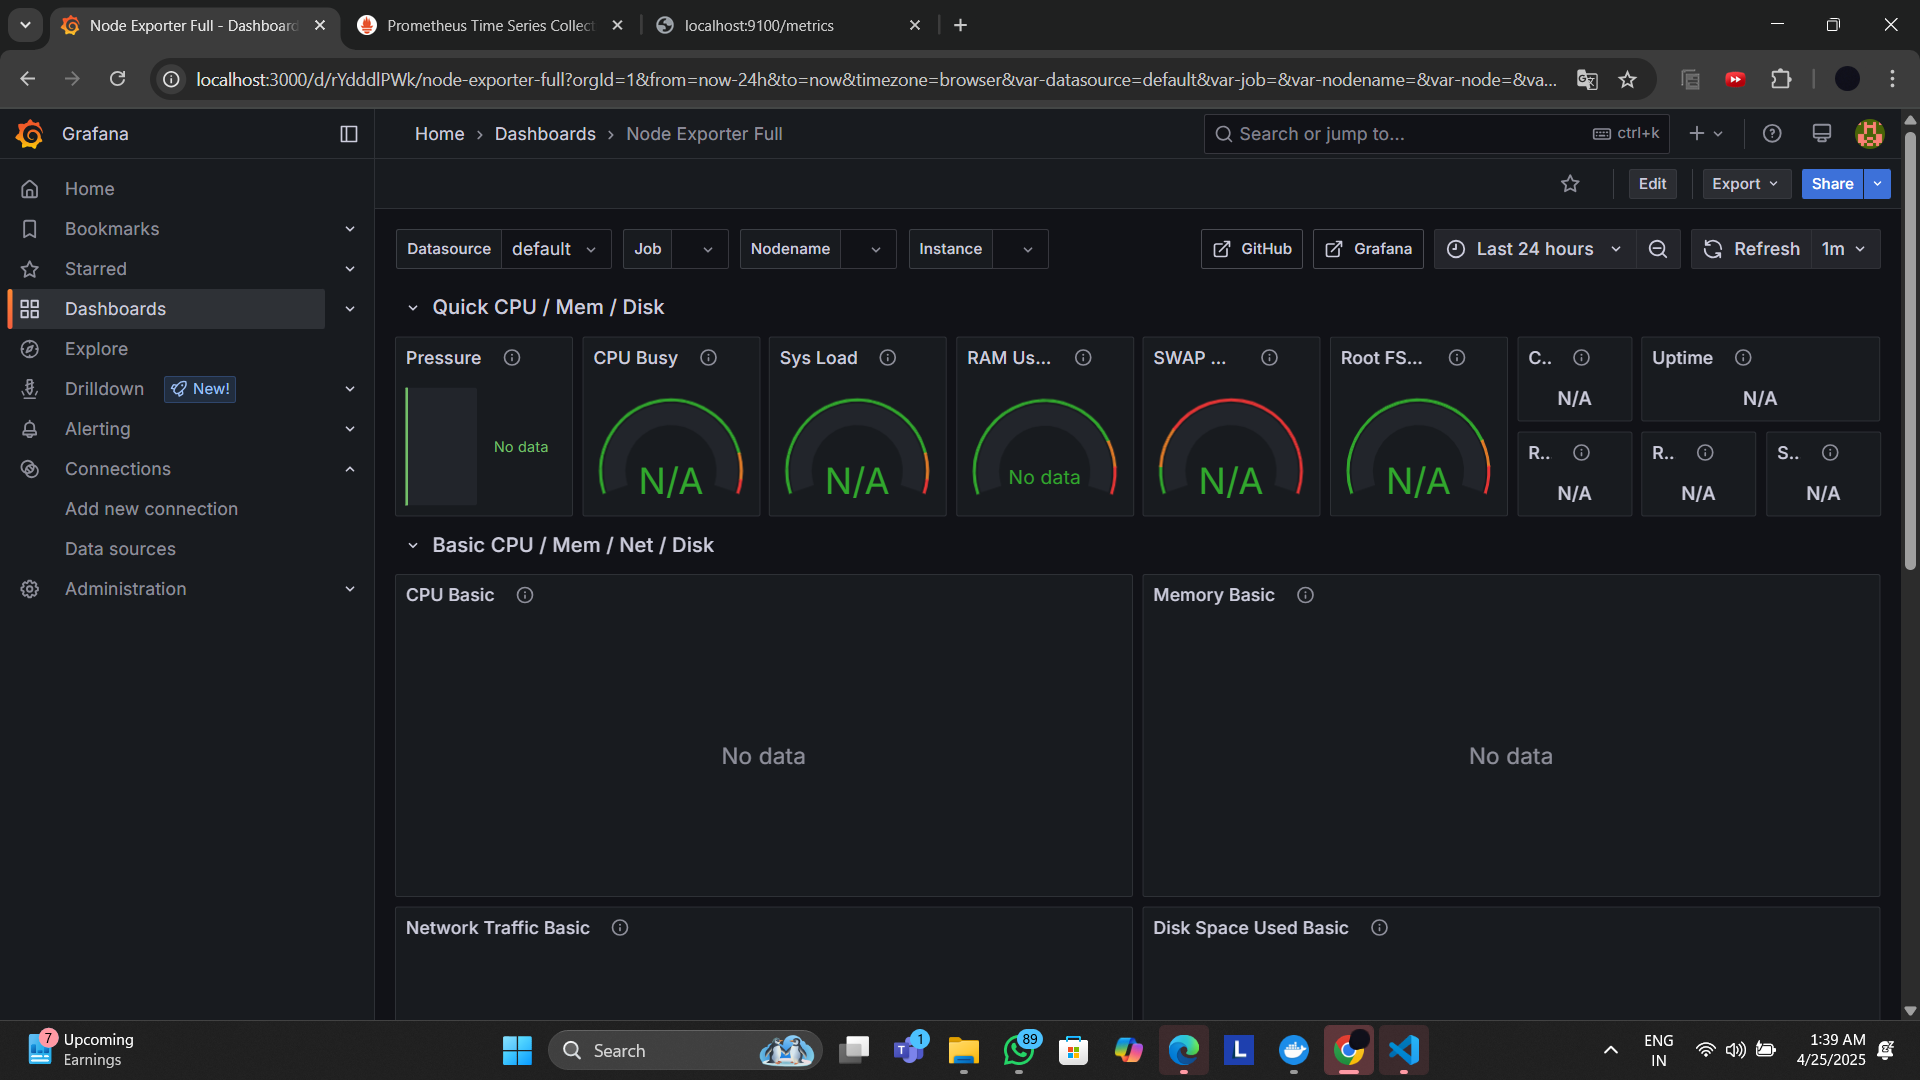
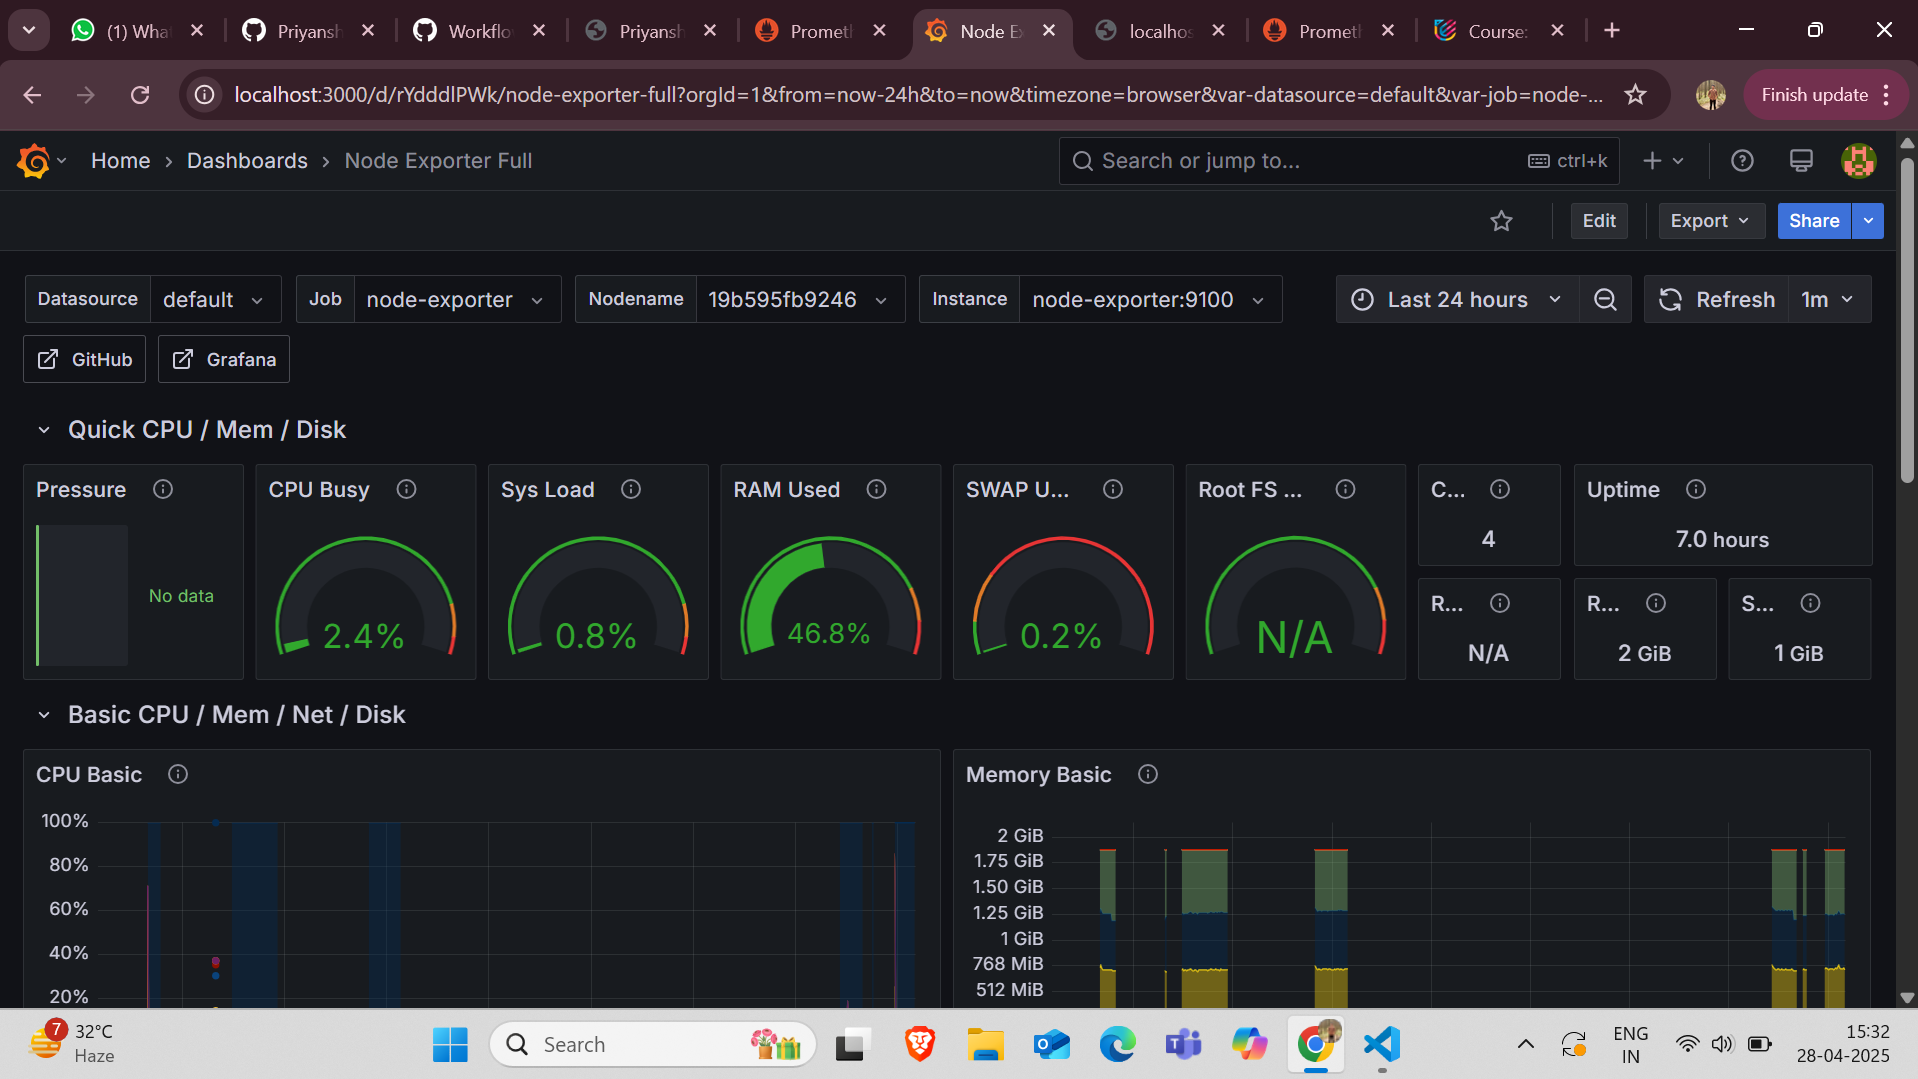
update file

diff --git a/README.md b/README.md
@@ -1,1 +1,127 @@
-# GRAFANA
+
+# **Monitoring Stack with Node Exporter, Prometheus, and Grafana** 📊
+
+## **Overview** 🌍
+
+This project sets up a monitoring stack using **Node Exporter**, **Prometheus**, and **Grafana** to collect and visualize system metrics from a Linux machine (or WSL) using Docker Compose.
+
+### **Technologies Used:** 🛠
+- **Node Exporter**: Collects system metrics. 📈
+- **Prometheus**: Scrapes and stores metrics. 🧑💻
+- **Grafana**: Visualizes metrics in dashboards. 📉
+
+---
+
+## **Prerequisites** ⚙
+
+- **Docker** and **Docker Compose** installed.  
+  If not, follow the [Docker installation guide](https://docs.docker.com/get-docker/). 🐋
+- **WSL 2 (Windows Subsystem for Linux)** if running on Windows with Ubuntu.  
+  [WSL Installation Guide](https://docs.microsoft.com/en-us/windows/wsl/install). 🖥
+- **Basic knowledge** of Docker, Prometheus, and Grafana. 📚
+
+---
+
+## **Setup Instructions** 🛠
+
+### **1. Install Node Exporter on Linux/WSL** 🔧
+
+Node Exporter collects system metrics and exposes them for Prometheus.
+
+1. **Download and Extract Node Exporter**:
+   ```bash
+   wget https://github.com/prometheus/node_exporter/releases/download/v1.9.1/node_exporter-1.9.1.linux-amd64.tar.gz
+   tar xvfz node_exporter-1.9.1.linux-amd64.tar.gz
+   cd node_exporter-1.9.1.linux-amd64
+   ```
+3. **Run Node Exporter**:
+   ```bash
+   ./node_exporter
+   ```
+   - Node Exporter will be running on `http://localhost:9100`. 🌐
+
+4. **Verify Metrics**:
+   - Open [http://localhost:9100/metrics](http://localhost:9100/metrics) in your browser. 🌐
+   - Or use `curl` to verify:
+     ```bash
+     curl http://localhost:9100/metrics
+     
+     ```
+
+5. **Note the WSL IP (if needed)**:
+   If Prometheus is outside WSL, get the WSL IP using:
+   ```bash
+   hostname -I
+   ```
+   Replace `localhost` with this IP in `prometheus.yml` later.
+
+---
+
+### **2. Set Up Prometheus & Grafana with Docker Compose** 🚢
+
+Prometheus scrapes metrics from Node Exporter and Grafana visualizes them.
+
+1. **Create `docker-compose.yml`**:
+   In your project directory, create the file `docker-compose.yml` with the following content:
+   ```yaml
+   version: '3'
+   services:
+     prometheus:
+       image: prom/prometheus
+       ports:
+         - "9090:9090"
+       volumes:
+         - ./prometheus.yml:/etc/prometheus/prometheus.yml
+     grafana:
+       image: grafana/grafana
+       ports:
+         - "3000:3000"
+   ```
+
+2. **Configure `prometheus.yml`**:
+   Create the file `prometheus.yml` with the following content:
+   ```yaml
+   global:
+     scrape_interval: 15s
+   scrape_configs:
+     - job_name: 'node-exporter'
+       static_configs:
+         - targets: ['<WSL_IP>:9100']  # Replace with WSL IP if Prometheus is outside WSL
+   ```
+
+3. **Start Services**:
+   Run the following command to start Prometheus and Grafana with Docker Compose:
+   ```bash
+   docker-compose up -d
+   ```
+4. **Verify Prometheus**:
+   - Open [http://localhost:9090](http://localhost:9090) in your browser. 🌐
+   - Check that Node Exporter is `UP` under **Status → Targets**. ✅
+
+---
+
+### **3. Set Up Grafana Dashboard** 📊
+
+Grafana provides the visualization layer for metrics collected by Prometheus.
+
+1. **Access Grafana**:
+   Open [http://localhost:3000](http://localhost:3000) in your browser. 🌐
+   - Default login: `admin` / `admin`
+2. **Add Prometheus Data Source**:
+   - Go to **Configuration → Data Sources → Add Prometheus**.
+   - Set the URL to `http://prometheus:9090` (or use `http://<Prometheus_IP>:9090` if Prometheus is not running in Docker).
+
+3. **Import Node Exporter Dashboard**:
+   - Go to **Create (+) → Import → Dashboard ID `1860`**
+     (or download the [Node Exporter Full Dashboard](http://localhost:3000/d/rYdddlPWk/node-exporter-full?orgId=1&from=now-24h&to=now&timezone=browser&var-datasource=default&var-job=&var-nodename=&var-node=&var-diskdevices=%5Ba-z%5D%2B%7Cnvme%5B0-9%5D%2Bn%5B0-9%5D%2B%7Cmmcblk%5B0-9%5D%2B&refresh=1m)).
+   - Select **Prometheus** as the data source and click **Import**.
+
+4. **View Metrics**:
+   The imported dashboard will display CPU, memory, disk, and network metrics. 📉
+---
+
+## **Troubleshooting** ⚠
+
+- **Docker Integration with WSL**: If running on Windows with WSL, make sure Docker Desktop is integrated with your WSL distro. Follow the [Docker WSL2 guide](https://docs.docker.com/go/wsl2/) for setup. 🖥
+- If you run Prometheus outside WSL, make sure to replace `localhost` with the WSL IP in the `prometheus.yml` file. 📡
+
